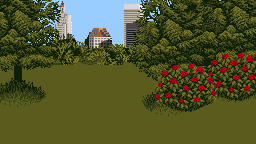
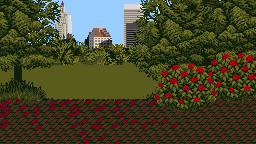
Added Brick Road to Providence

Changed region(s): [[0.0, 0.6667, 1.0, 1.0]]

diff --git a/game/movement.js b/game/movement.js
@@ -58,8 +58,7 @@ var layout = {
     height: 12,
     tileTypes: {
         ' ': Object.extend(tile, {dense: false}),
-        '-': Object.extend(tile, {graphicState: 'sidewalk1', color: '#9c4', dense: false}),
-        '=': Object.extend(tile, {graphicState: 'sidewalk2', color: '#9c4', dense: true}),
+        '=': Object.extend(tile, {dense: true}),
         '#': Object.extend(tile, {dense: true}),
         '.': Object.extend(tile, {color: '#488', dense: true}),
         '|': Object.extend(tile, {graphicState: 'sidewalk1', color: '#9c4', dense: true})
@@ -74,7 +73,7 @@ var layout = {
         '                '+
         '                '+
         '                '+
-        '----------------'+
+        '                '+
         '================'+
         '################'
 };

diff --git a/client/resource_library.js b/client/resource_library.js
@@ -309,10 +309,6 @@ client.resourceLibrary = {
                 "hurt2": {offsetX: 384},
                 "hurt3": {offsetX: 400, width: 32, nudgeX: -16},
             }, {width: 16, height: 48, anchorY: 48}),
-            tiles: spriteSheet('img/sprites.png', {
-                "sidewalk1": {},
-                "sidewalk2": {offsetY: 16}
-            }),
             bits: spriteSheet('img/bits.png', {
                 "1_1": {offsetX: 0, offsetY: 0}, "1_2": {offsetX: 8, offsetY: 0},
                 "1_3": {offsetX: 0, offsetY: 8}, "1_4": {offsetX: 8, offsetY: 8},
